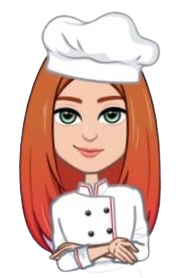
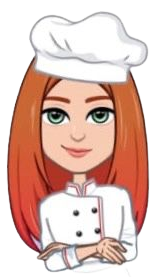
selectores que se estan colocando en el elemento y diseño

diff --git a/src/StylesSheet/Styles.css b/src/StylesSheet/Styles.css
@@ -136,9 +136,9 @@
     text-align: center;
   }
 
-
+  /* Recuadro color  morado */
   .Recuadro-Vistasecun {
-    width: 750px;
+    width: 870px;
     height: 374px;
     margin: 1% auto;
     display: flex;
@@ -147,21 +147,25 @@
     background-color: #845CA9;
   }
 
+  /* Tiyulo de Quienes somos */
   .titulo-secun{
     color:#E788FF;
     border-color: 1px solid #E788FF;
   }
 
+  /* Contenedor principal de elemento de letras */
   .texto1-secun{
-    width: 350px;
+    width: 410px;
     color: #fff;
     font-size: 18px;
   }
 
+  /* avatar de Niicos cupcakes */
   .avatar img{
-    width: 199px;
+    width: 170px;
   }
 
+    /* Boton de productos */
   .boton-vistasecun button{
     width: 338px;
     height: 42px;

diff --git a/src/App.js b/src/App.js
@@ -8,7 +8,7 @@ function App() {
   return (
     <div className="App">
 
-    {/* { <Home/> } */}
+    {/* { <Home/>} */}
 
     {<VistaSecun/> }
     
